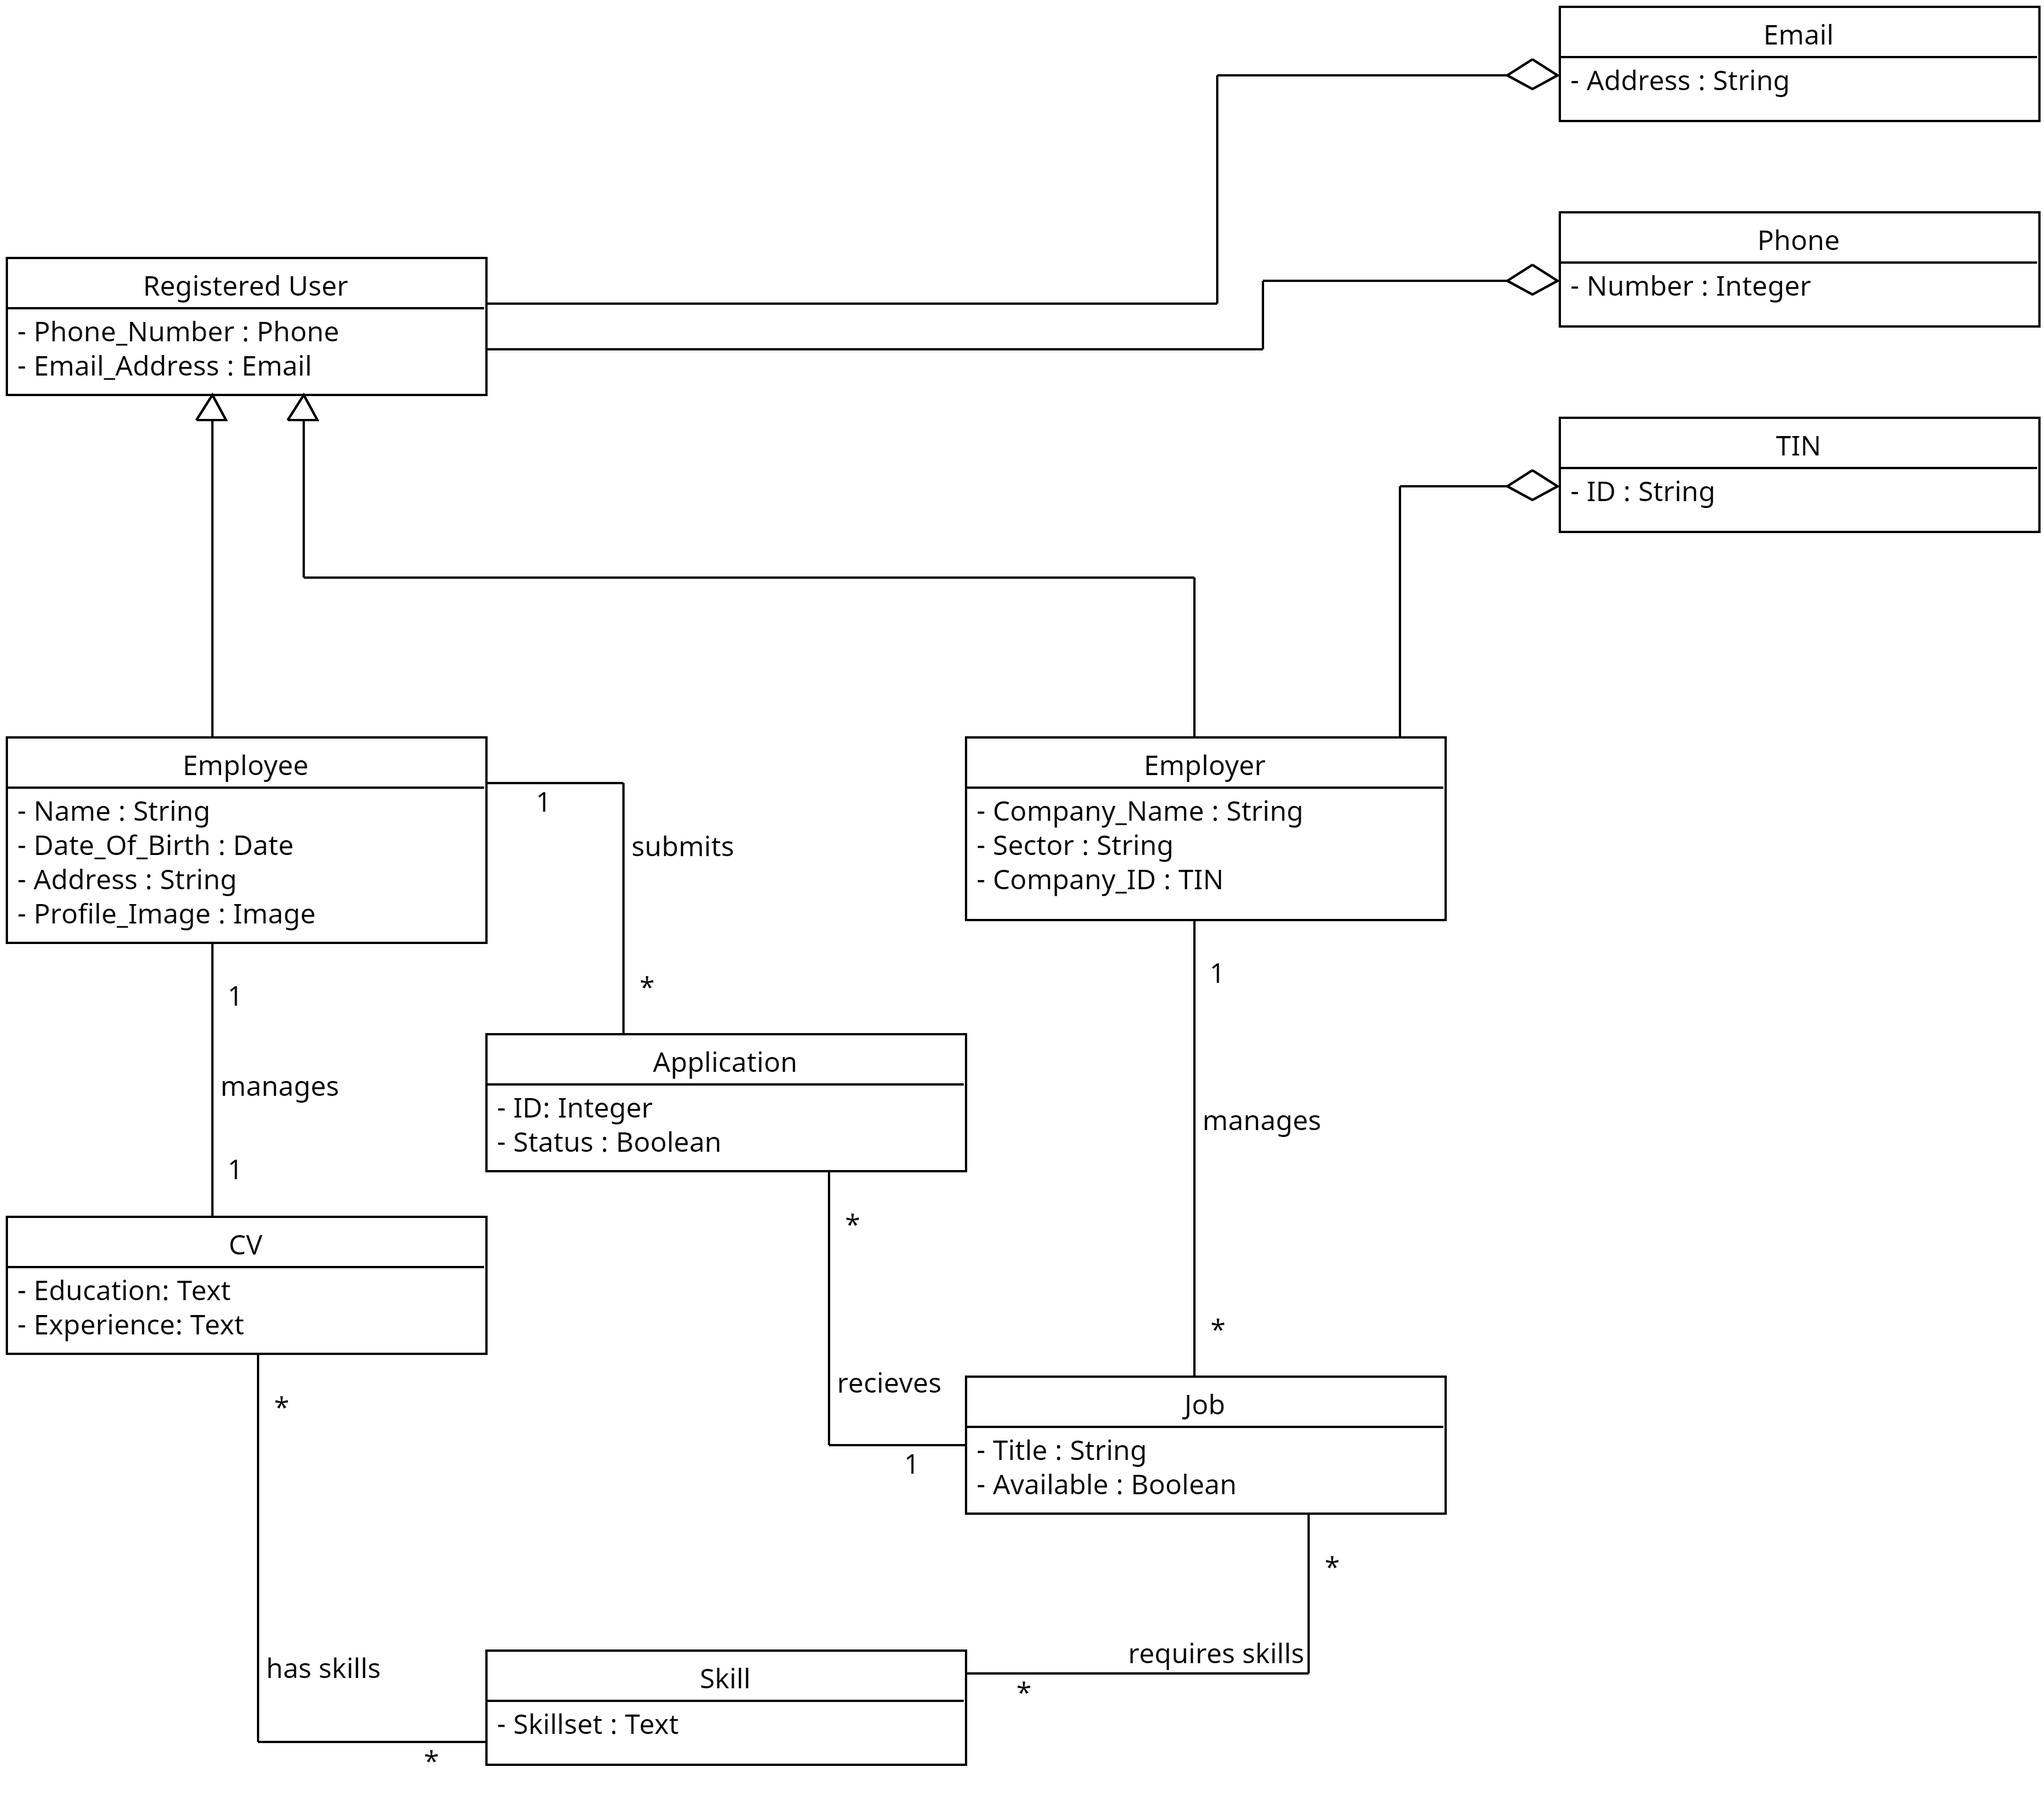
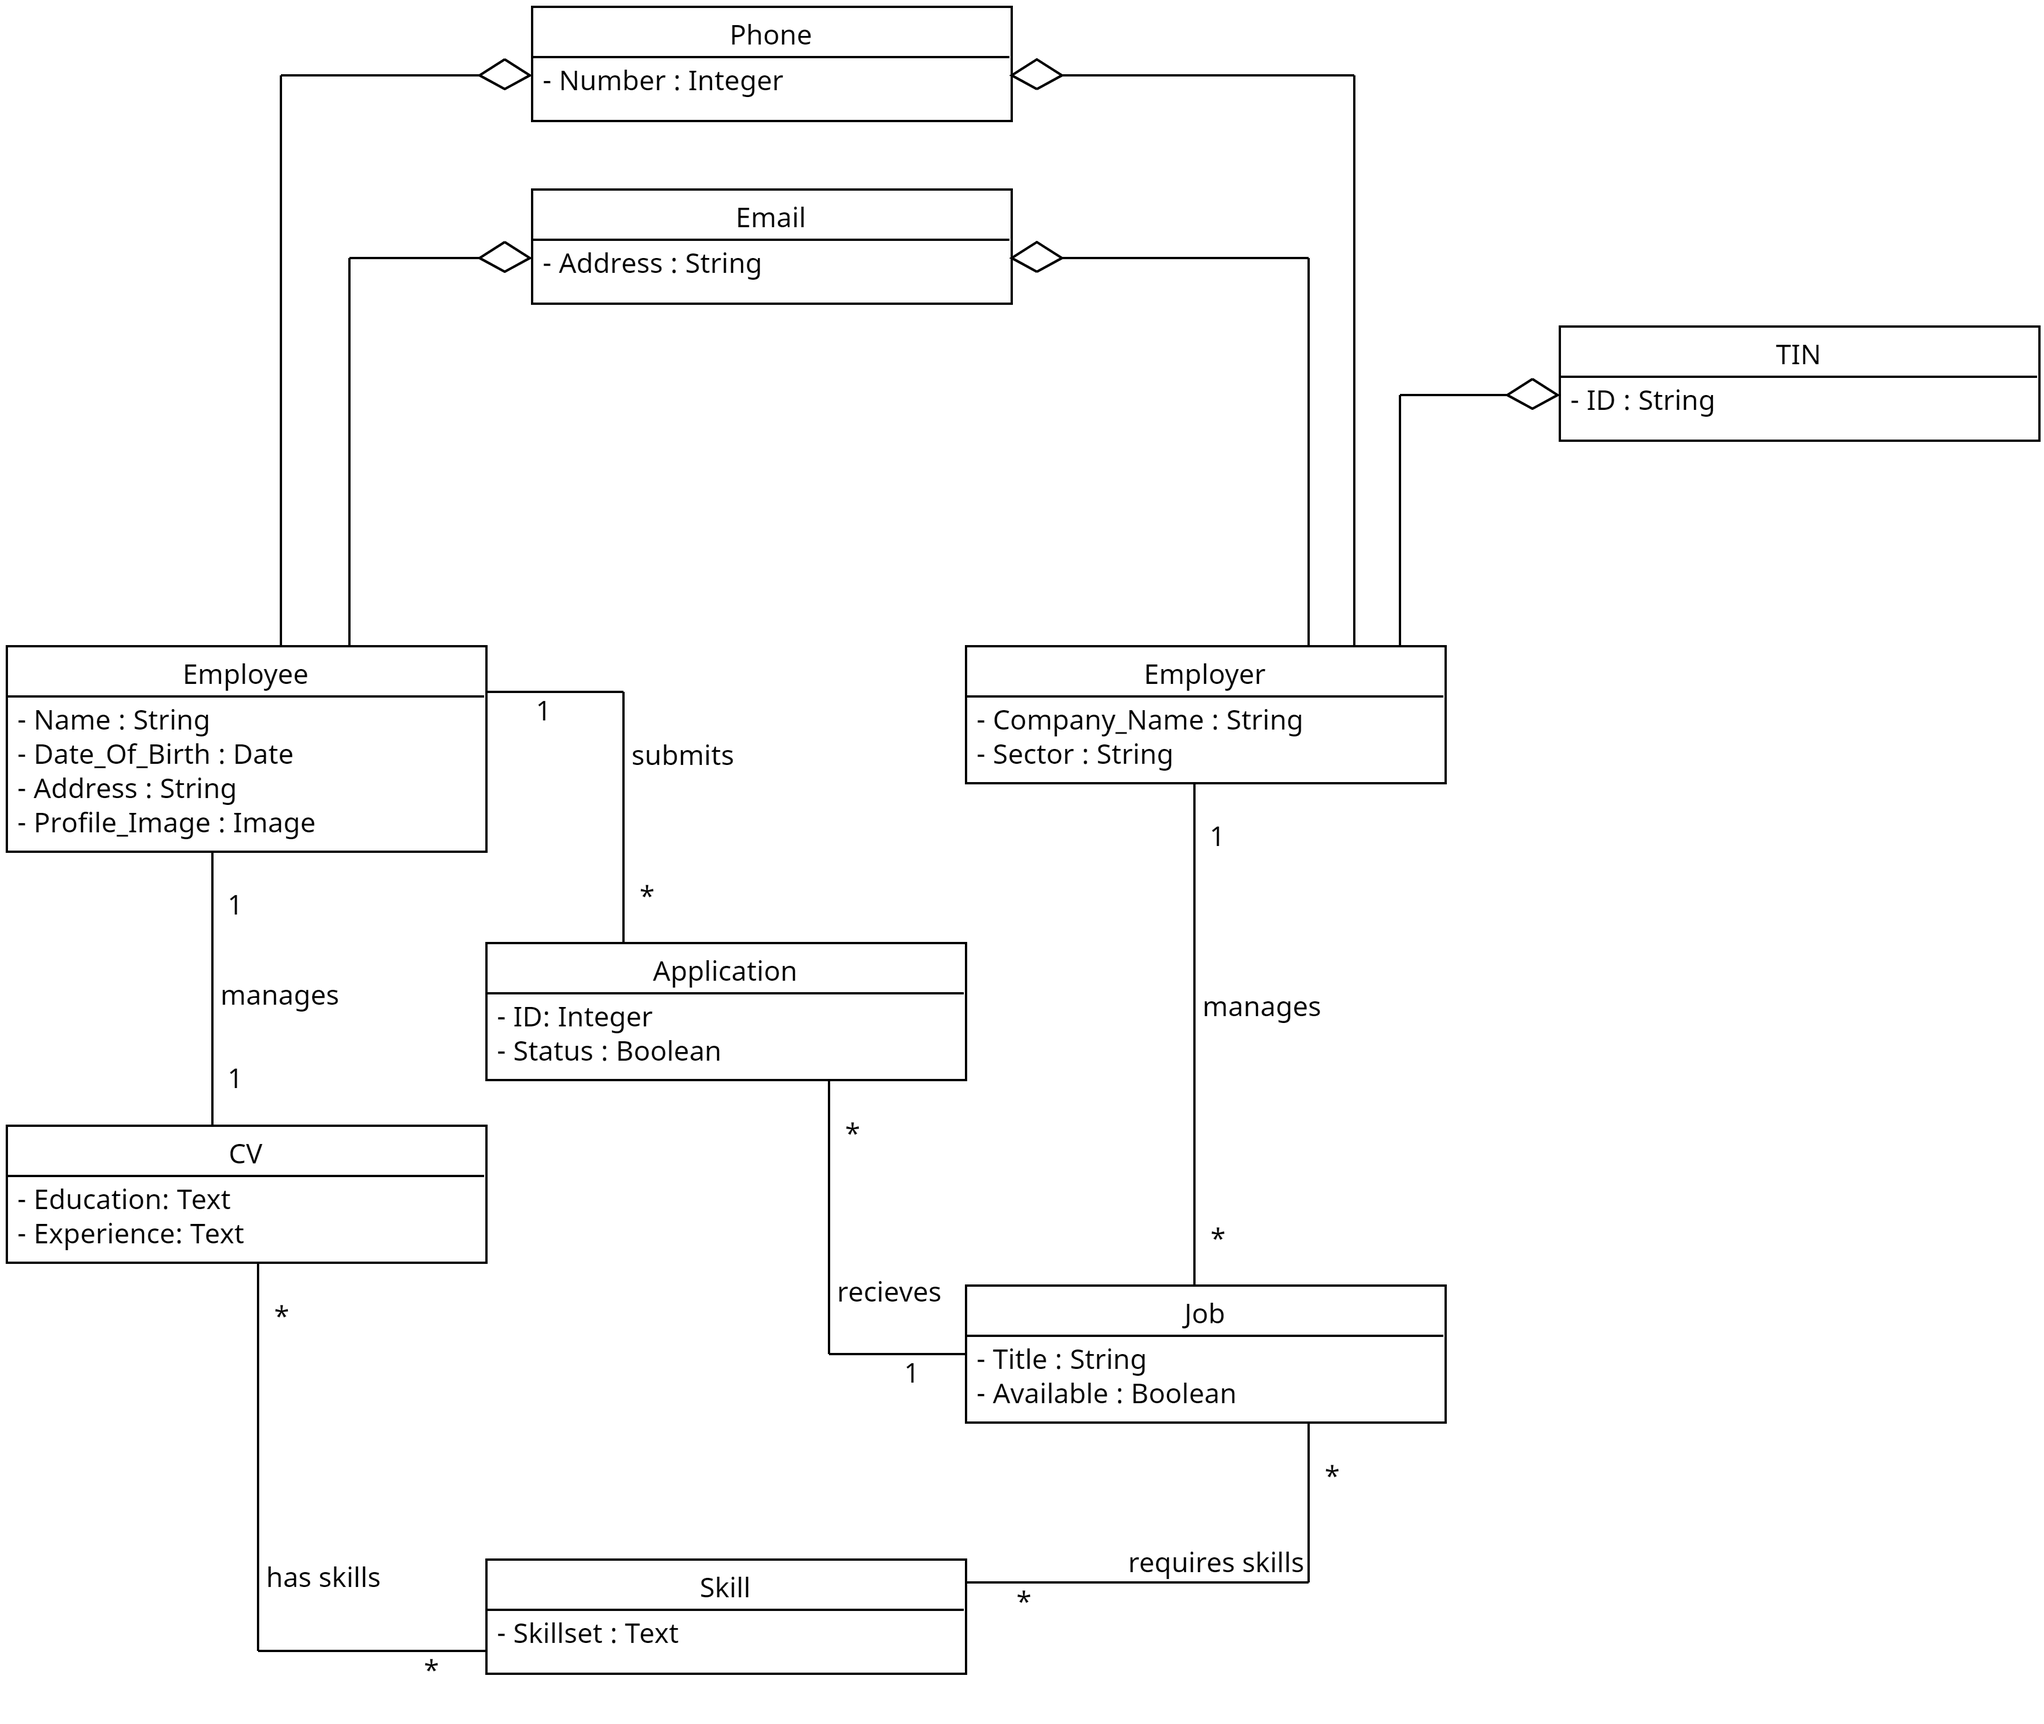
corrections on sequence diagrams, class analysis, class diagram, images and text

diff --git a/docs/markdown/software-requirements.md b/docs/markdown/software-requirements.md
@@ -52,8 +52,6 @@
 |Εργαζόμενος| Αναζητεί εργασία που ταιριάζει στα ενδιαφέροντά του| Αναζήτηση Εργασίας, Κοινοποίηση και Επεξεργασία Βιογραφικού|
 |Εργοδότης| Αναζητεί κατάλληλους υπαλλήλους για τις διάφορες θέσεις εργασίας που προσφέρει| Επεξεργασία αιτημάτων εργασίας, Διαχείριση Θέσεων Εργασίας|
 
-\[*Ένα πίνακας με του actors του συστήματος. Βλέπε πίνακας 3-7 παραδείγματος 3-11 στη σελίδα 167 του βιβλίου.*\]
-
 ### Περιγραφές περιπτώσεων χρήσης
 | Περίπτωση Χρήσης   | Περιγραφή   |
 | :------:           | :---------: |
@@ -63,10 +61,6 @@
 |ΠΧ4. Manage Job Positions| Η περίπτωση χρήσης για την προσθήκη ή επεξεργασία υπάρχουσων θέσεων εργασίας|
 |ΠΧ5. Modify CV| Η περίπτωση χρήσης για την κοινοποίηση ή τροποποίηση του βιογραφικού του εργαζομένου|
 |ΠΧ6. Job Research| Η περίπτωση χρήσης για την αναζήτηση θέσεων εργασίας που συμπίπτει, έως ένα βαθμό, με τις ικανότητες και τα ενδιαφέροντα του εργαζομένου|
-
-\[*Γράφονται οι περιπτώσεις χρήσης οι οποίες συνοδεύονται με διαγράμματα δραστηριότητας εάν θεωρηθεί αναγκαίο.*
-
-*Βλέπε , το παράδειγμα 3-7 στη σελίδα 159, το παράδειγμα 3-8 στη σελίδα 160 και το παράδειγμα 3-9 στη σελίδα 162.*\]
 
 #### [ΠΧ1 Διαχείριση Εταιρικού Λογαριασμού](uc1-business-account-management.md)
 
@@ -171,12 +165,7 @@
 
 ## <a id="business-rules"></a>Επιχειρησιακοί κανόνες
 
-\[*Ένας πίνακας με τους επιχειρησιακούς κανόνες. Βλέπε πίνακα 3-4 του παραδείγματος 3-1 στη σελίδας 133 του βιβλίου.*\]
-
 | Επιχειρησιακοί κανόνες | Περιγραφή |
 | :----------------------| :---------|
-| ΕΚ1 | Η ονομασία και το ΑΦΜ είναι μοναδικά για κάθε εταιρεία.
-| ΕΚ2 | Όλα τα απαιτούμενα στοιχεία είναι υποχρεωτικά.
-| ΕΚ3 | Η ηλικία του χρήστη θα πρέπει να είναι μεγαλύτερη των 18 ετών.
-| ΕΚ4 | Ένας ενδιαφερόμενος μπορεί να υποβάλλει το πολύ μία αίτηση σε κάθε ανοιχτή θέση εργασίας.
-| ΕΚ5 | Μη επιτρεπτές ενέργειες και η παραβίαση της πολητικής της εφαρμογής από κάποιον λογαριασμό θα συνοδεύεται από την άμεση διαγραφή του.
+| ΕΚ1 |  Η ηλικία του χρήστη θα πρέπει να είναι μεγαλύτερη των 18 ετών.
+| EK2 | Κάθε λογαριασμός θα πρέπει να έχει μοναδικό email και τηλέφωνο.
